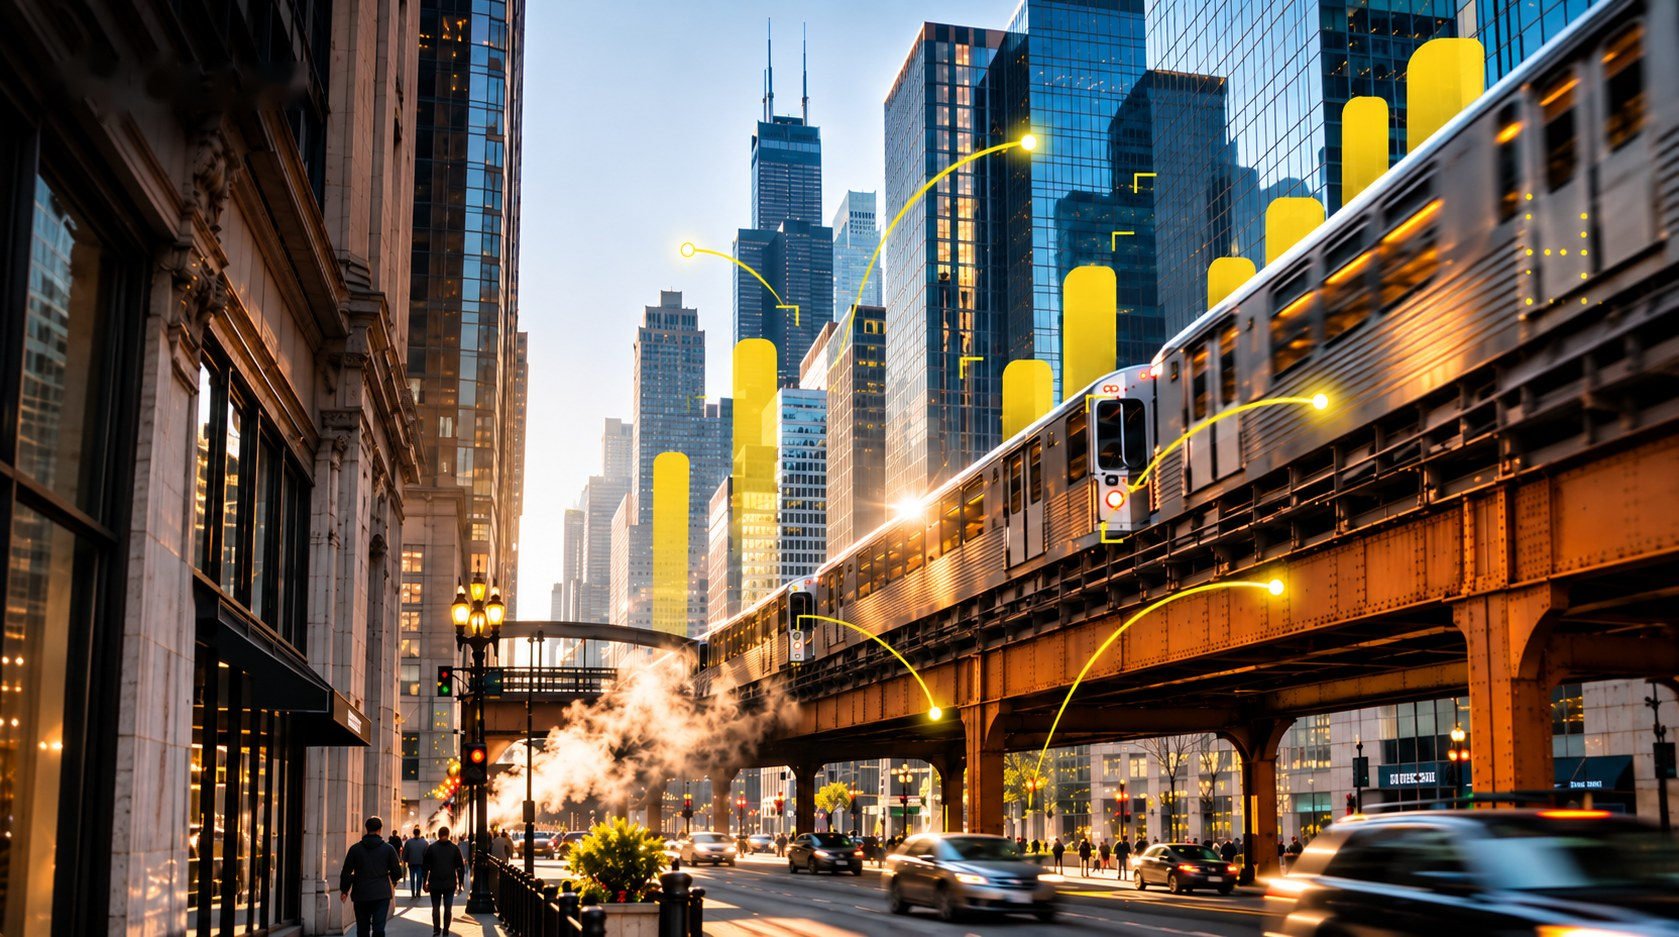
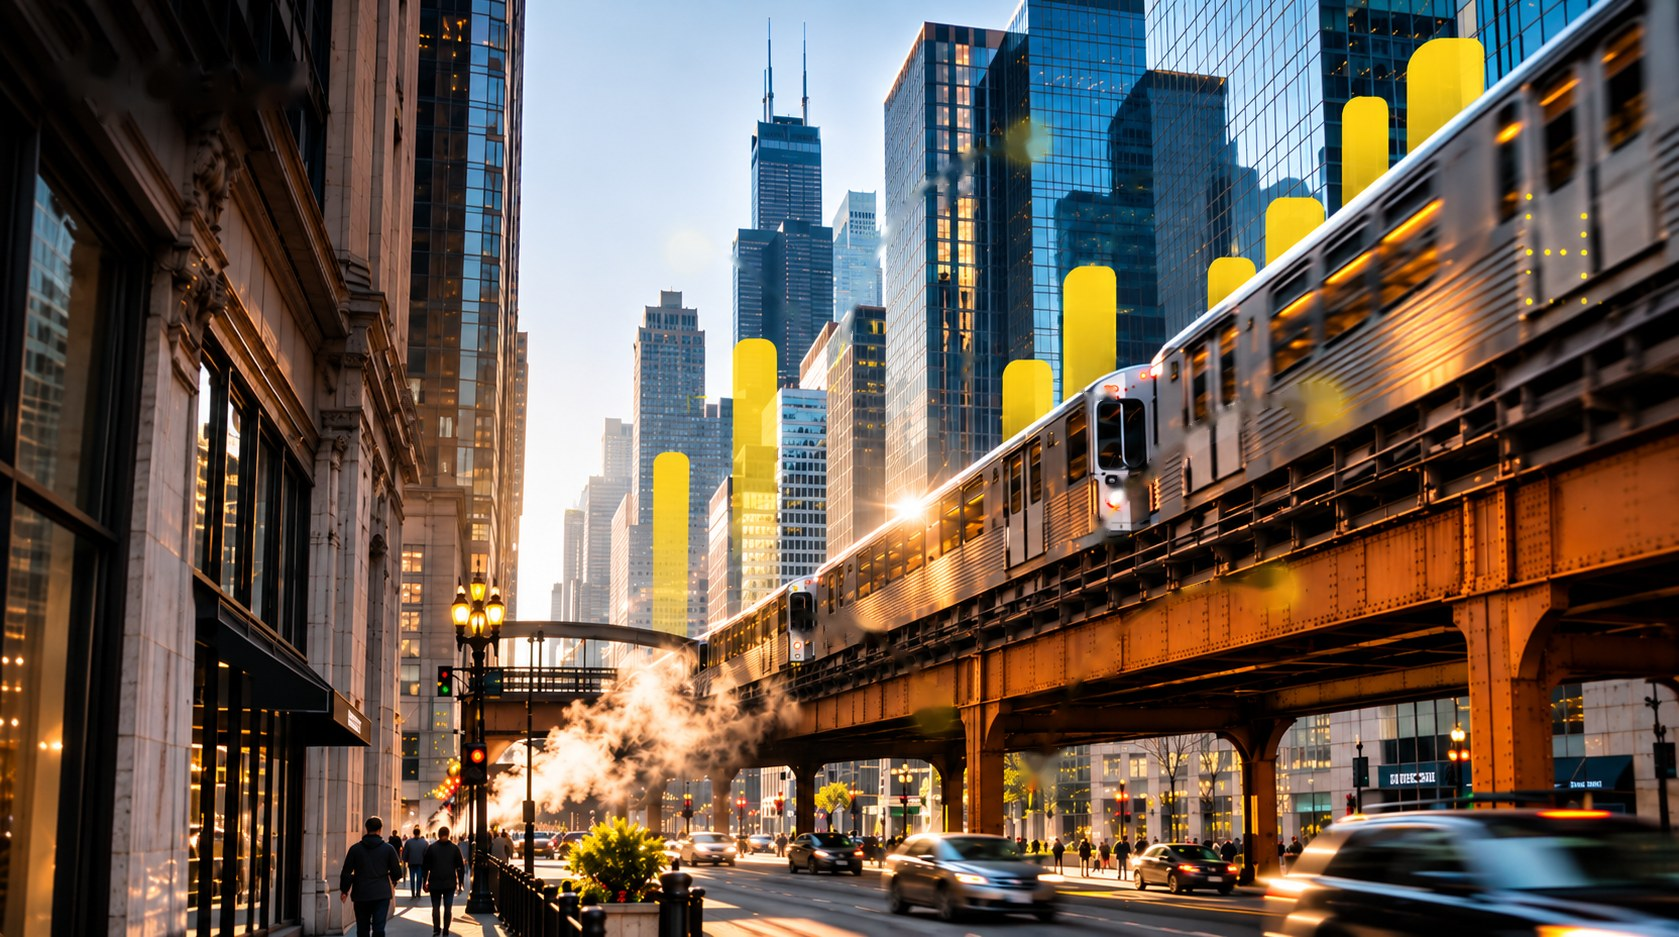
Train panel: signals drawn live in the hero's style
The yellow lines, dots and brackets are now drawn on the page instead of
baked into the photo. They draw out from their dots into the city when the
panel is well into view, then a light runs a line, a dot sends and a bracket
re-locks now and then. Sky lines stay off the headline on phones. Follows
the hero's Pause button; reduced motion shows everything still.

Claude-Session: https://claude.ai/code/session_01RNDgBExrG1CX8pdTpcEbyg

diff --git a/index.html b/index.html
@@ -85,6 +85,6 @@
 <section id="trust" class="trust panel"><div><span class="sec-rule"><span>03</span><span>YOU MAKE THE CALL</span></span><h2>Intelligence should<br>earn your trust.</h2></div><div class="trust-details"><article><h3>Show the evidence.</h3><p>Keep the source close to the signal so you can judge what is worth acting on.</p></article><article><h3>Say what is unknown.</h3><p>“Unable to verify” is useful information. A gap should stay visible.</p></article><article><h3>Keep people in charge.</h3><p>Nothing sends without your yes. Your relationships. Your decision.</p></article><a href="/how-we-work" class="panel-link" style="margin:8px 0 0;display:inline-block">See how we work →</a></div></section>
 <section class="photo-row panel"><img src="/assets/cafe.jpg" alt="Colleagues in conversation at a sidewalk café"><div><span class="eyebrow">BUILT AROUND THE WORK</span><h2>Same hustle.<br>No wasted swings.</h2><p>Less time connecting scattered information. More context for the conversations that matter.</p></div></section>
 <section id="contact" class="contact panel dark"><div><span class="eyebrow">YOUR NEXT MOVE</span><h2>Bring an account.<br>See the signal<span class="yellow">.</span></h2><p>Name one account you’re working now. We’ll show you what ŌLLIN finds, and what you’d send.</p></div><form id="contact-form"><label>Your name<input name="name" autocomplete="name" placeholder="Your name" required></label><label>Work email<input type="email" name="email" autocomplete="email" placeholder="you@company.com" required></label><label>What would you like to explore?<select name="interest"><option>ŌLLIN OS + ŌLLIN GO</option><option>ŌLLIN OS — intelligence</option><option>ŌLLIN GO — campaigns</option></select></label><label><span>An account you’re working <span class="optional">(optional)</span></span><textarea name="challenge" rows="3" placeholder="Company name, or a few words about it…"></textarea></label><label class="hp" aria-hidden="true">Website<input name="website" tabindex="-1" autocomplete="off"></label><button type="submit" class="cta yellow-bg">Send</button><p class="reply-note">A person replies within one business day.</p><p class="form-note">Prefer email? <span class="sel">marcos@ollinos.com</span></p><p id="form-status" role="status"></p></form></section>
-</main><footer><a href="/" aria-label="ŌLLIN home"><svg style="display:block;width:115px;height:auto" role="img" aria-label="ŌLLIN" xmlns="http://www.w3.org/2000/svg" viewBox="48 50 520 170"><rect x="56.00" y="96.00" width="36.00" height="76.00" rx="13.00" fill="#FFE14D"></rect><rect x="102.00" y="56.00" width="36.00" height="92.00" rx="13.00" fill="#FFE14D"></rect><rect x="152.00" y="76.00" width="32.00" height="32.00" rx="11.00" fill="#FFE14D"></rect><rect x="148.00" y="118.00" width="36.00" height="98.00" rx="13.00" fill="#FFE14D"></rect><path d="M239.96 139.64Q239.96 127.28 245.78 117.44Q251.6 107.60000000000001 261.5 102.08000000000001Q271.4 96.56 283.28 96.56Q295.15999999999997 96.56 305.05999999999995 102.08000000000001Q314.96 107.60000000000001 320.65999999999997 117.44Q326.36 127.28 326.36 139.64Q326.36 152.0 320.6 161.9Q314.84000000000003 171.8 305.0 177.32Q295.15999999999997 182.84 283.28 182.84Q271.4 182.84 261.5 177.32Q251.6 171.8 245.78 161.9Q239.96 152.0 239.96 139.64ZM305.48 139.64Q305.48 128.48000000000002 299.42 121.82000000000001Q293.36 115.16 283.28 115.16Q273.08 115.16 267.02 121.76Q260.96 128.36 260.96 139.64Q260.96 150.8 267.02 157.46Q273.08 164.12 283.28 164.12Q293.36 164.12 299.42 157.4Q305.48 150.68 305.48 139.64Z M355.87999999999994 166.16H382.75999999999993V182.0H335.35999999999996V97.76H355.87999999999994Z M410.7199999999999 166.16H437.5999999999999V182.0H390.19999999999993V97.76H410.7199999999999Z M465.5599999999999 97.76V182.0H445.0399999999999V97.76Z M553.3999999999999 182.0H532.8799999999999L498.5599999999999 130.04V182.0H478.0399999999999V97.76H498.5599999999999L532.8799999999999 149.96V97.76H553.3999999999999Z" fill="#181A1E"></path><rect x="276.25" y="75.56" width="60.48" height="12.60" rx="4.03" fill="#181A1E"></rect></svg></a><span>Intelligence for real work.</span><nav class="foot-links" aria-label="Site pages"><a href="/">Home</a><a href="/client-mapping">Client mapping</a><a href="/campaigns">Campaigns</a><a href="/redeploy">Redeploy</a><a href="/how-we-work">How we work</a><a href="/#contact">Let’s talk</a></nav><span>© 2026 ŌLLIN · an ELIPAN Group company.</span></footer><script src="/nav.js"></script><script src="/app.js"></script><script src="/site-motion.js"></script><script src="/hero-scan.js" defer></script><script type="module" src="/motion-intro.js"></script>
+</main><footer><a href="/" aria-label="ŌLLIN home"><svg style="display:block;width:115px;height:auto" role="img" aria-label="ŌLLIN" xmlns="http://www.w3.org/2000/svg" viewBox="48 50 520 170"><rect x="56.00" y="96.00" width="36.00" height="76.00" rx="13.00" fill="#FFE14D"></rect><rect x="102.00" y="56.00" width="36.00" height="92.00" rx="13.00" fill="#FFE14D"></rect><rect x="152.00" y="76.00" width="32.00" height="32.00" rx="11.00" fill="#FFE14D"></rect><rect x="148.00" y="118.00" width="36.00" height="98.00" rx="13.00" fill="#FFE14D"></rect><path d="M239.96 139.64Q239.96 127.28 245.78 117.44Q251.6 107.60000000000001 261.5 102.08000000000001Q271.4 96.56 283.28 96.56Q295.15999999999997 96.56 305.05999999999995 102.08000000000001Q314.96 107.60000000000001 320.65999999999997 117.44Q326.36 127.28 326.36 139.64Q326.36 152.0 320.6 161.9Q314.84000000000003 171.8 305.0 177.32Q295.15999999999997 182.84 283.28 182.84Q271.4 182.84 261.5 177.32Q251.6 171.8 245.78 161.9Q239.96 152.0 239.96 139.64ZM305.48 139.64Q305.48 128.48000000000002 299.42 121.82000000000001Q293.36 115.16 283.28 115.16Q273.08 115.16 267.02 121.76Q260.96 128.36 260.96 139.64Q260.96 150.8 267.02 157.46Q273.08 164.12 283.28 164.12Q293.36 164.12 299.42 157.4Q305.48 150.68 305.48 139.64Z M355.87999999999994 166.16H382.75999999999993V182.0H335.35999999999996V97.76H355.87999999999994Z M410.7199999999999 166.16H437.5999999999999V182.0H390.19999999999993V97.76H410.7199999999999Z M465.5599999999999 97.76V182.0H445.0399999999999V97.76Z M553.3999999999999 182.0H532.8799999999999L498.5599999999999 130.04V182.0H478.0399999999999V97.76H498.5599999999999L532.8799999999999 149.96V97.76H553.3999999999999Z" fill="#181A1E"></path><rect x="276.25" y="75.56" width="60.48" height="12.60" rx="4.03" fill="#181A1E"></rect></svg></a><span>Intelligence for real work.</span><nav class="foot-links" aria-label="Site pages"><a href="/">Home</a><a href="/client-mapping">Client mapping</a><a href="/campaigns">Campaigns</a><a href="/redeploy">Redeploy</a><a href="/how-we-work">How we work</a><a href="/#contact">Let’s talk</a></nav><span>© 2026 ŌLLIN · an ELIPAN Group company.</span></footer><script src="/nav.js"></script><script src="/app.js"></script><script src="/site-motion.js"></script><script src="/hero-scan.js" defer></script><script src="/train-signals.js" defer></script><script type="module" src="/motion-intro.js"></script>
 </body>
 </html>

diff --git a/train-signals.js b/train-signals.js
@@ -1,0 +1,139 @@
+// Train panel: the signals in the Chicago photo, drawn live in the hero's style.
+// The yellow lines draw themselves out from their dots into the city, the
+// corner brackets lock on, then now and then a light runs a line, a dot sends
+// and a bracket re-locks. Drawn in photo coordinates, matched to the photo's
+// object-fit: cover crop. Starts once the panel is well into view, follows the
+// hero's Pause button. Reduced motion: everything drawn, nothing moves.
+(function () {
+  const panel = document.querySelector(".train-panel");
+  const img = panel && panel.querySelector("img");
+  if (!img) return;
+  const reduce = !!(window.matchMedia && matchMedia("(prefers-reduced-motion: reduce)").matches);
+  const canAnimate = !reduce && !!document.body.animate;
+
+  const IW = 1679, IH = 937; // train-signals.jpg natural size
+  const NS = "http://www.w3.org/2000/svg";
+  // Each line starts at its signal dot and ends on something in the city.
+  const CURVES = [
+    "M688 252 Q740 252 776 296",     // → Willis Tower
+    "M1030 140 Q880 200 852 326",    // → glass tower
+    "M1320 402 Q1190 410 1120 488",  // → the train's cab
+    "M934 713 Q890 625 797 621",     // → the rear car
+    "M1275 588 Q1110 600 1036 770",  // → the street
+  ];
+  const CORNERS = [
+    "M777 306 H796 V322",            // Willis Tower
+    "M1087 404 V396 H1106",          // cab, top
+    "M1101 523 V541 H1121",          // cab, bottom
+    "M961 369 V358 H978",            // tower behind the train
+    "M1113 249 V232 H1134",          // glass tower
+    "M1135 191 V175 H1155",          // glass tower, higher
+  ];
+
+  const svg = document.createElementNS(NS, "svg");
+  svg.setAttribute("viewBox", `0 0 ${IW} ${IH}`);
+  svg.setAttribute("preserveAspectRatio", "none");
+  svg.setAttribute("aria-hidden", "true");
+  svg.classList.add("sig-layer", "tsig-layer");
+  const el = (tag, attrs) => {
+    const n = document.createElementNS(NS, tag);
+    for (const k in attrs) n.setAttribute(k, attrs[k]);
+    return n;
+  };
+  // On phones the headline sits over the sky, so the two sky lines and the
+  // Willis bracket stay desktop-only.
+  const DESK_ONLY_LINES = [0, 1], DESK_ONLY_CORNERS = [0];
+  const lines = CURVES.map((d, i) => {
+    const p = el("path", { d, pathLength: 1, class: "sig-trace" });
+    const comet = el("path", { d, pathLength: 1, class: "sig-comet" });
+    const [, x, y] = d.match(/M(\d+) (\d+)/);
+    const ring = el("circle", { cx: x, cy: y, r: 7, class: "tsig-ring" });
+    const dot = el("circle", { cx: x, cy: y, r: 6, class: "tsig-dot" });
+    if (DESK_ONLY_LINES.includes(i)) [p, comet, ring, dot].forEach(e => e.classList.add("tsig-desk"));
+    svg.append(p, comet, ring, dot);
+    return { p, comet, ring, dot, desk: DESK_ONLY_LINES.includes(i) };
+  });
+  const corners = CORNERS.map((d, i) => {
+    const p = el("path", { d, class: "sig-lock" });
+    if (DESK_ONLY_CORNERS.includes(i)) { p.classList.add("tsig-desk"); p._desk = true; }
+    svg.append(p); return p;
+  });
+  const isPhone = () => !!(window.matchMedia && matchMedia("(max-width: 600px)").matches);
+
+  const stage = document.createElement("div");
+  stage.className = "sig-stage";
+  stage.append(svg);
+  panel.append(stage);
+
+  const pos = v => v === "left" || v === "top" ? 0 : v === "right" || v === "bottom" ? 1 : v === "center" ? .5 : parseFloat(v) / 100;
+  function layout() {
+    const W = panel.clientWidth, H = panel.clientHeight;
+    const s = Math.max(W / IW, H / IH);
+    const [px, py] = getComputedStyle(img).objectPosition.split(" ").map(pos);
+    const ox = (W - IW * s) * (isNaN(px) ? .5 : px);
+    const oy = (H - IH * s) * (isNaN(py) ? .5 : py);
+    stage.style.cssText = `left:${ox}px;top:${oy}px;width:${IW * s}px;height:${IH * s}px`;
+  }
+  layout();
+  if (window.ResizeObserver) new ResizeObserver(layout).observe(panel);
+  else addEventListener("resize", layout);
+
+  if (!canAnimate) { svg.classList.add("tsig-still"); panel.classList.add("sig-on"); return; }
+
+  const EASE = "cubic-bezier(.22,1,.36,1)";
+  let drawn = false;
+  function drawIn() {
+    drawn = true;
+    panel.classList.add("sig-on");
+    lines.forEach(({ p, dot }, i) => {
+      dot.animate([{ opacity: 0, transform: "scale(.2)" }, { opacity: 1, transform: "scale(1)" }],
+        { duration: 450, delay: i * 260, easing: EASE, fill: "both" });
+      p.animate([{ strokeDashoffset: 1 }, { strokeDashoffset: 0 }],
+        { duration: 1000, delay: 200 + i * 260, easing: EASE, fill: "both" });
+    });
+    corners.forEach((c, i) => c.animate([{ opacity: 0, transform: "scale(1.6)" }, { opacity: 1, transform: "scale(1)" }],
+      { duration: 550, delay: 900 + i * 140, easing: EASE, fill: "both" }));
+  }
+  // Hidden until drawn
+  lines.forEach(({ p, dot }) => { p.style.strokeDashoffset = 1; dot.style.opacity = 0; });
+  corners.forEach(c => { c.style.opacity = 0; });
+
+  let timer = 0, running = [], onScreen = false, n = 0;
+  const paused = () => document.documentElement.classList.contains("sig-paused");
+  function beat() {
+    running = [];
+    const ph = isPhone();
+    const L = lines.filter(l => !(ph && l.desk)), C = corners.filter(c => !(ph && c._desk));
+    const a = L[n % L.length], b = L[(n + 2) % L.length];
+    [a, b].forEach(({ comet, ring }, j) => {
+      running.push(
+        ring.animate([{ transform: "scale(1)", opacity: .9 }, { transform: "scale(3)", opacity: 0 }],
+          { duration: 1000, delay: j * 1300, easing: "ease-out" }),
+        comet.animate(
+          [{ strokeDashoffset: .14, opacity: 0 }, { opacity: 1, offset: .1 }, { opacity: 1, offset: .85 }, { strokeDashoffset: -1, opacity: 0 }],
+          { duration: 1800, delay: 200 + j * 1300, easing: "cubic-bezier(.45,0,.55,1)" }));
+    });
+    const c = C[n % C.length];
+    running.push(c.animate(
+      [{ transform: "scale(1)", opacity: 1 }, { transform: "scale(1.5)", opacity: .2, offset: .3 }, { transform: "scale(1)", opacity: 1 }],
+      { duration: 900, delay: 700, easing: EASE }));
+    n++;
+    timer = setTimeout(beat, 5200);
+  }
+  function stop() { clearTimeout(timer); timer = 0; running.forEach(x => x.cancel()); running = []; }
+  function sync() {
+    const go = drawn && onScreen && !paused() && !document.hidden;
+    if (go && !timer) timer = setTimeout(beat, 1200);
+    if (!go && timer) stop();
+  }
+  document.addEventListener("visibilitychange", sync);
+  document.addEventListener("sigpause", sync);
+  // Same trigger rule as the rest of the site: start once the panel is well into view
+  if (window.IntersectionObserver) {
+    new IntersectionObserver(([e]) => {
+      onScreen = e.isIntersecting;
+      if (onScreen && !drawn) drawIn();
+      sync();
+    }, { threshold: .55 }).observe(panel);
+  } else { onScreen = true; drawIn(); sync(); }
+})();

diff --git a/style.css b/style.css
@@ -173,3 +173,10 @@ html,body{background:#fff}
 .train-signal-badge.train-lockup{background:none;box-shadow:none;padding:0;border-radius:0;right:30px;bottom:26px}
 .train-lockup svg{display:block;width:44px;height:auto;filter:drop-shadow(0 2px 10px rgba(0,0,0,.55))}
 @media(max-width:600px){.train-signal-badge.train-lockup{right:24px;bottom:22px}.train-lockup svg{width:36px}}
+
+/* Train panel: the photo's signals drawn live in the hero's style (train-signals.js) */
+.train-panel.sig-on .sig-layer{opacity:1}
+.tsig-still .sig-trace{stroke-dasharray:none}
+.tsig-dot{fill:#ffe14d;transform-box:fill-box;transform-origin:center;filter:drop-shadow(0 0 3px #ffe14d) drop-shadow(0 0 9px rgba(255,225,77,.7))}
+.tsig-ring{fill:none;stroke:#ffe14d;stroke-width:2px;vector-effect:non-scaling-stroke;opacity:0;transform-box:fill-box;transform-origin:center}
+@media(max-width:600px){.tsig-desk{display:none}}

diff --git a/hero-scan.js b/hero-scan.js
@@ -176,6 +176,8 @@
       btn.textContent = paused ? "Play" : "Pause";
       btn.setAttribute("aria-pressed", String(paused));
       btn.setAttribute("aria-label", paused ? "Play background motion" : "Pause background motion");
+      document.documentElement.classList.toggle("sig-paused", paused);
+      document.dispatchEvent(new Event("sigpause"));
       sync();
     });
     bottom.append(btn);
